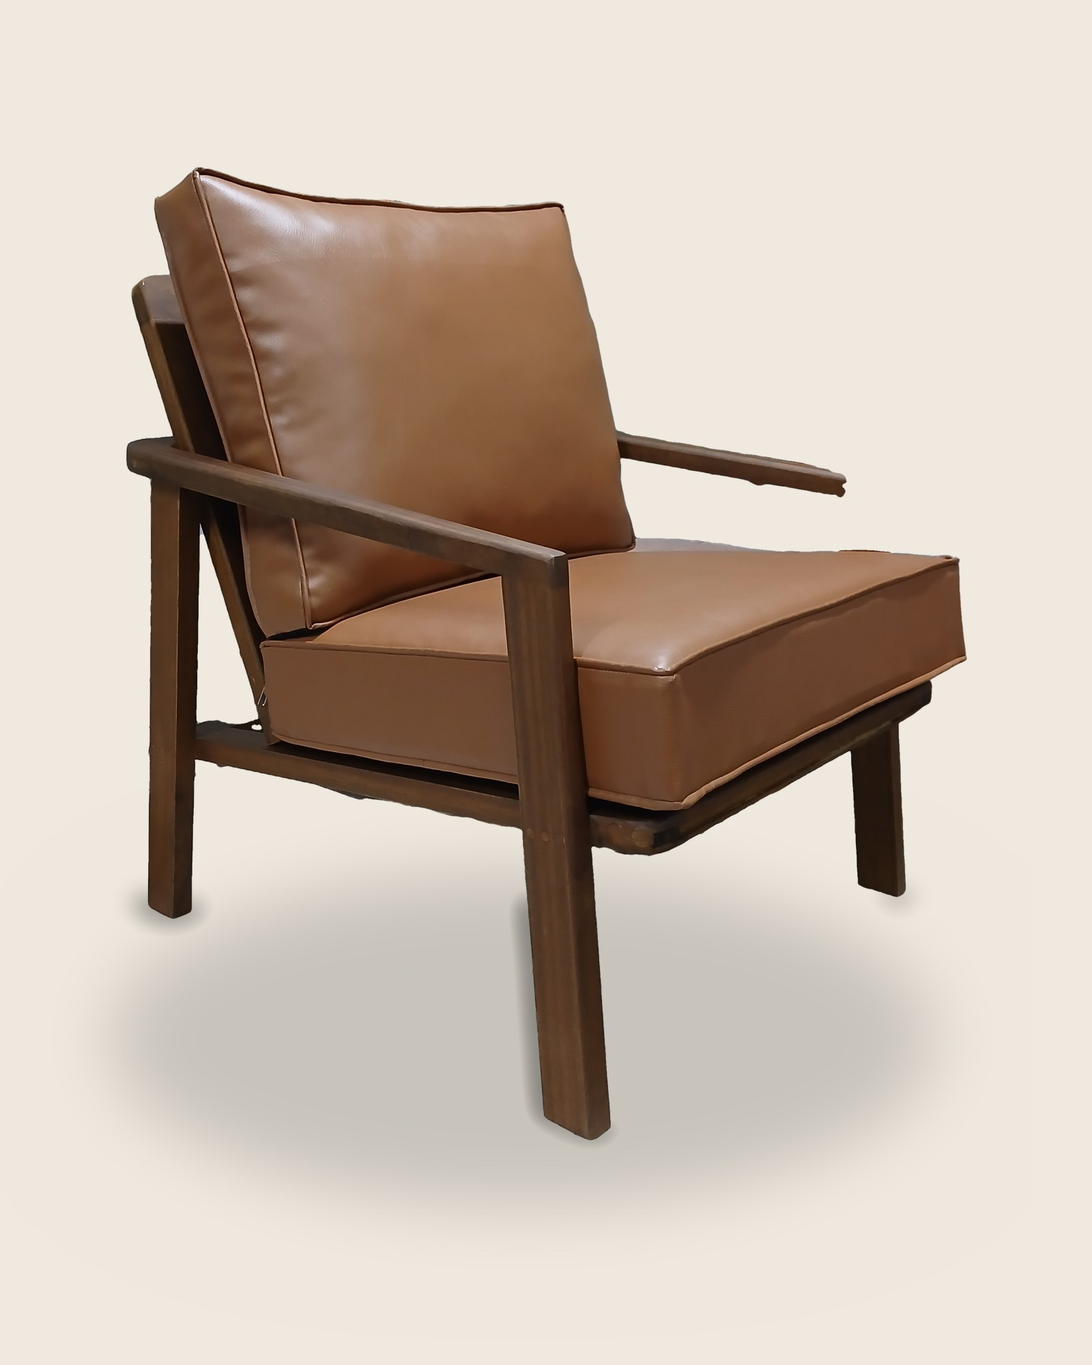
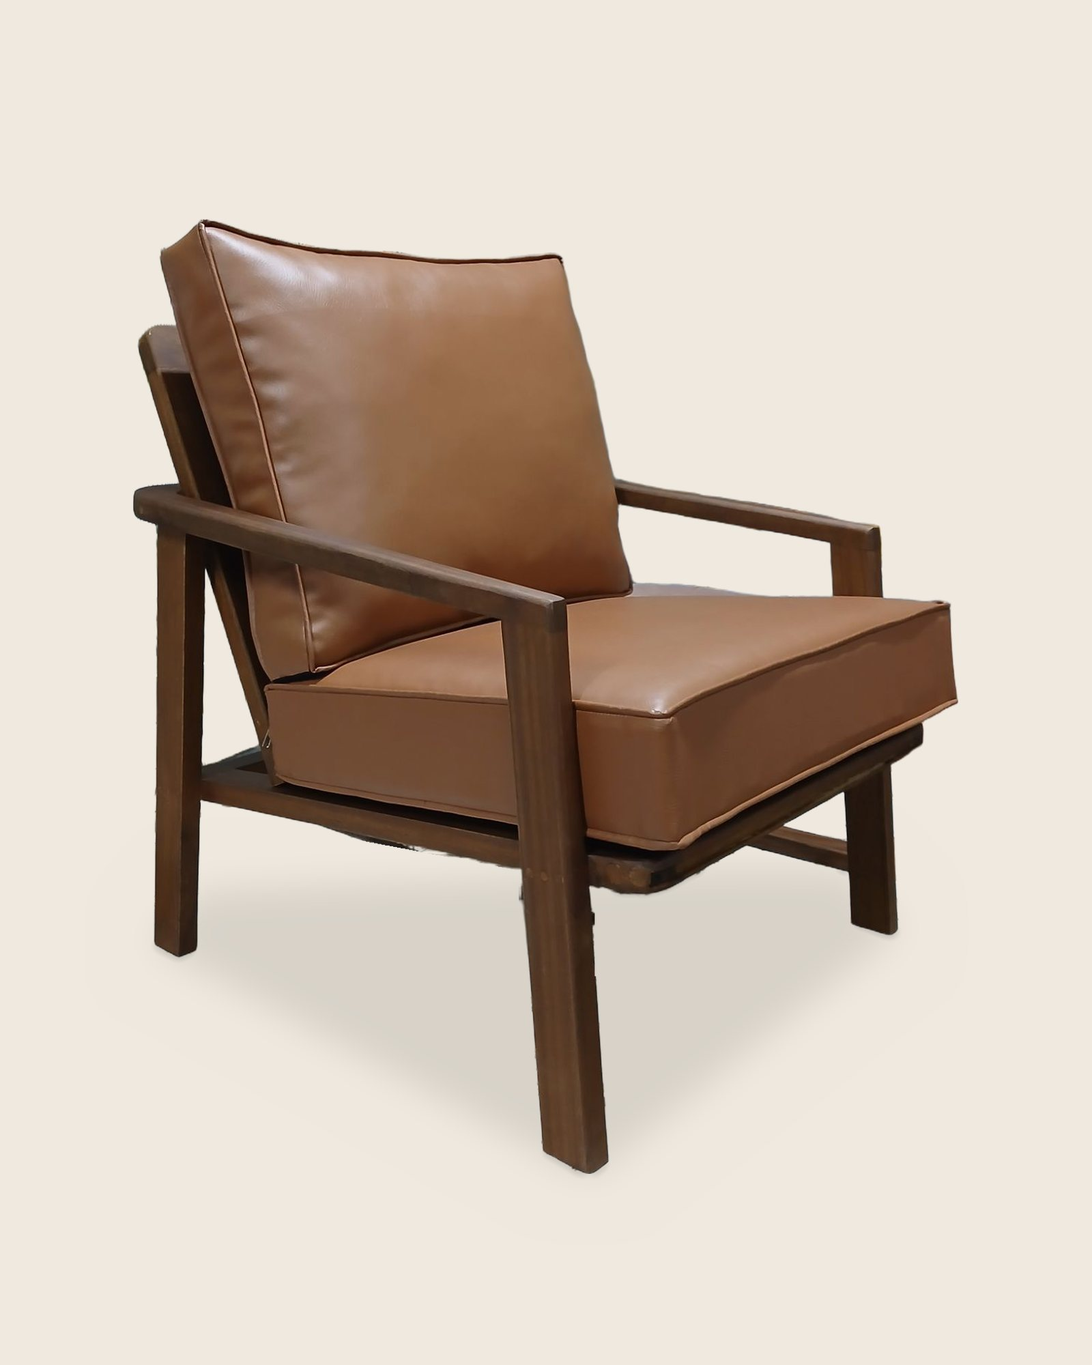
Seating: re-cut the lounge chair photos (all legs and the full cushion kept, soft shadow from the feet)
- birefnet-general mask instead of isnet (kept the thin far legs), strap and fabric roll removed by hand
- scripts/cutout-lounge-chairs.py rebuilds all four; before/after in docs/review/lounge-chairs-recut.jpg
- frames photo left as it was (straighten.py misread the reclined backs)

Changed region(s): [[0.0938, 0.124, 0.9062, 0.899]]

diff --git a/scripts/cutout-lounge-chairs.py b/scripts/cutout-lounge-chairs.py
@@ -1,0 +1,66 @@
+"""Lounge chair cut-outs on bone (2026-11-23, redo after the first pass lost legs and a cushion end).
+Mask: rembg birefnet-general (isnet-general-use dropped thin far legs). fix() removes two things the model kept:
+a dark strap on the table under chair 1, and the pink fabric roll behind the seat of chair 3 (pixel boxes measured
+on the 1500x2000 originals 1-4.jpg in the order the owner sent them: corner, side, other corner, pair).
+Writes chairs/lounge-chair-N.jpg (site names) at 1600x2000, bone #efe9df, soft shadow from the feet. usage: python scripts/cutout-lounge-chairs.py <dir with 1-4.jpg>
+Needs rembg, opencv-python-headless, Pillow, numpy (install outside the repo)."""
+import sys, os, shutil
+SITE = {"1": "1", "3": "2", "4": "3", "2": "4"}   # owner photo order -> site file number (3 = pair, 4 = side)
+import numpy as np
+from PIL import Image, ImageFilter
+from rembg import remove, new_session
+D = sys.argv[1]; os.chdir(D); os.makedirs("chairs", exist_ok=True)
+sess = new_session("birefnet-general")
+for k in "1234":
+    shutil.copy(f"{k}.jpg", f"chairs/{k}.jpg"); im = Image.open(f"{k}.jpg").convert("RGB")
+    remove(im, session=sess, only_mask=True).save(f"chairs/{k}-birefnet-general.png")
+import numpy as np
+from PIL import Image, ImageFilter
+BONE=(239,233,223)
+def fix(k,a):
+    H,W=a.shape
+    if k=='1':   # dark strap on the table under the seat (not part of the chair)
+        for x in range(600,822):
+            y0=int(1150+(248+(x-600)*2*85/445)/2)+2
+            a[y0:1500,x]=0
+        a[1365:1460,924:1080]=0
+    if k=='3':   # pink fabric roll seen behind the seat cushion
+        for x in range(780+65,780+430):
+            if 780+298<=x<=780+360: continue
+            yl=int(1050+75+(x-780-40)*25/390)-1
+            a[1050+15:yl,x]=0
+    return a
+for k in '1234':
+    im=np.array(Image.open(f'chairs/{k}.jpg').convert('RGB')).astype(np.float32)
+    a=np.array(Image.open(f'chairs/{k}-birefnet-general.png').convert('L')).astype(np.float32)/255
+    a=fix(k,a)
+    a[a<0.06]=0
+    ys,xs=np.where(a>0.5); x0,x1,y0,y1=xs.min(),xs.max(),ys.min(),ys.max()
+    im,a=im[y0:y1+1,x0:x1+1],a[y0:y1+1,x0:x1+1]
+    h,w=a.shape; CW,CH=1600,2000
+    s=min(CW*0.88/w, CH*0.70/h)
+    nw,nh=int(w*s),int(h*s)
+    cimg=Image.fromarray(im.astype(np.uint8)).resize((nw,nh),Image.LANCZOS)
+    cal=Image.fromarray((a*255).astype(np.uint8)).resize((nw,nh),Image.LANCZOS)
+    left=(CW-nw)//2; top=int(min(CH*0.86,(CH+nh)/2+CH*0.05))-nh   # tall chairs stand low, a wide pair sits near the middle
+    bg=Image.new('RGB',(CW,CH),BONE)
+    # floor shadow: soft patch over the area between the feet, plus a darker spot under each foot
+    import cv2
+    al=np.array(cal).astype(np.float32)/255
+    feet=[]
+    for x in range(nw):
+        col=np.where(al[:,x]>0.5)[0]
+        if len(col) and col.max()>nh*0.68 and (len(col)<3 or al[min(col.max()+3,nh-1),x]<0.5):
+            feet.append((left+x, top+col.max()))
+    sh=np.zeros((CH,CW),np.float32); con=np.zeros((CH,CW),np.float32)
+    if feet:
+        pts=np.array(feet,np.int32)
+        hull=cv2.convexHull(pts)
+        cv2.fillPoly(sh,[hull],0.16)
+        for x,y in feet: con[y-3:y+5,x]=0.5
+    sh=cv2.GaussianBlur(sh,(0,0),26)
+    sh=np.maximum(sh,cv2.GaussianBlur(con,(0,0),6))
+    b=np.array(bg).astype(np.float32)*(1-sh[...,None]*0.6)
+    bg=Image.fromarray(b.clip(0,255).astype(np.uint8))
+    bg.paste(cimg,(left,top),cal)
+    bg.save(f'chairs/lounge-chair-{SITE[k]}.jpg',quality=84,optimize=True,progressive=True)

diff --git a/CLAUDE.md b/CLAUDE.md
@@ -271,7 +271,7 @@ Membership platform for Ghanaian carpenters, run by Neewoody. The intake's purpo
 One member tool for all sheet-goods jobs (wardrobes, kitchens, TV units…) built from carcass units on a written **construction standard** (owner's principle: screws in shear, never in withdrawal). AI only suggests a spec (from words or a sketch photo); plain tested code sizes every part and hands them to the existing Cut Sheet. Plan, draft rule book (joint rules vs checks) and build order: **`docs/tools/smart-cutlist-plan.md`**. **Engine built 2026-11-19:** `js/smart/engine.js` (wardrobe units, positions first: the cut list is read off placed 3D parts; clash check built in); `node scripts/test-smart-engine.mjs` proves it matches `cutlist.html` part for part on 9 wardrobes with no clashes. **Experimental page `smart-generator.html` (2026-11-20, owner: "under construction label so people can try it out but we don't bear liability"):** open to all, noindex; under-construction banner + no-responsibility notice, a required "I will check every size" tick before sending/printing/exporting; spec editor, 3D, cut list, Send to the Cut Sheet (`nwd-smart-handoff`, read once by `cut-sheet.html`); exports members only; listed on /tools and the member Tools tab; What's new #44. Keep the banner and tick box until the owner says the engine is proven. **Edge banding is on as standard (owner 2026-11-20):** parts arrive pre-banded in the cutlist, the Smart Generator and its Cut Sheet handoff; members take off what isn't needed. Rules: `ebDefault` in `cutlist.html` = `edges()` in `js/smart/engine.js` (the parity test checks both); What's new #45. **Tools linked from the client side (2026-11-20, owner: "client facing side has no link to the tool"):** before this no public page linked any tool. Now the Wardrobes hero has "Estimate the price" (/wardrobe-estimator) and "Design it in 3D" (/cutlist) (`hero.extra` in `src/content/wardrobes.js`), every Astro footer's More column and the phone menu have "Free tools" (/tools). The cutlist stays fully usable logged out (only Save and the 3D exports ask for a login; print is behind the follow-to-unlock click). Accessibility checked with axe-core (WCAG 2 A/AA + best practice) at 1280 and 375 px: cutlist (form and results), Smart Generator, Cut Sheet, Wardrobes, Tools, estimator, homepage all 0 issues after fixes (edge-band drawings now have text labels, alpha notice contrast, footer links underlined, banners in landmarks, scrollable cut list reachable by keyboard). **Homeowner wardrobe planner (2026-11-20, owner: "homeowners should have their version"):** `/wardrobe-planner` (`src/pages/wardrobe-planner.astro`, public, indexed, in sitemap): size, door type (hinged / sliding / open), 1–6 equal sections, per section a plain-words layout (long hanging, hanging + shelves, double hanging, shelves, shelves + drawers, hanging + drawers) and one or two doors; 3D view on the Smart Generator engine (client mode, no cut list or construction settings); "Send this design on WhatsApp" with the full layout, "Get a price range" → estimator; note that it is a guide drawing and we measure before quoting. Wardrobes hero "Design it in 3D" and the Tools page (For homeowners) link to it; the carpenters' `/cutlist` stays fully open (settled rule: never gate the calculator). All presets checked clash-free at heights 1200–3200 with every door type. **Print lock (2026-11-20):** no website can verify an Instagram/TikTok follow, so the cutlist's lock is the strongest honest version: the top Print button and Ctrl+P print a "follow to print" notice until a follow button has been opened and the visitor comes back (or 10 s pass); remembered per device (`nwd-cutlist-print`); members always unlocked. Before this the top Print button bypassed the lock entirely. **Toe-kick banding (owner 2026-11-20):** flush with the doors = all round; set back = only the bottom edge (floor dragging chips laminate). In both `ebDefault` and engine `edges(p, shop)`; the cutlist resets the toe-kick marks when the style changes. **Live price, planner + cutlist + estimator merged (2026-11-20, owner: "the more you build the more price shows"; owner made a video telling clients to use the cutlist to build or buy materials and have us assemble):** `js/smart/price.js` (`WardrobePrice`) holds the owner's prices: laminate board 2440 × 1220 GH₵500, edge band GH₵200 per 100 m roll + GH₵500 application per roll, 2" assembly screws and 1¼" outside-panel screws GH₵60 per box of 100, handles 30 cm GH₵30 / 60 cm GH₵50 / 100 cm GH₵75. `materials(parts)` counts boards with the Cut Sheet's packing (matches the Cut Sheet exactly; over-long parts are counted as joined pieces and flagged), edge band from the banding, screws per joint (estimate, +10%, whole boxes), handles per door and drawer front; hinges, runners, hanging rails, sliding tracks and the thin back board are counted but NOT priced (owner to give prices). `estimate()` = the wardrobe estimator's formula, moved here; the estimator page now calls it (same results). The planner shows "Build it yourself: materials" and "We make and install it" live, with finish, door handles and area; the cutlist has a fixed price bar that updates as you build and a Materials Price card in the results (door-handle choice, follows the Edge Band Sheet). The cutlist is linked client-side: Wardrobes hero "Build it yourself", Tools (For homeowners), planner, estimator; its hero has a line for homeowners. The follow-to-print lock still applies. **Materials only, no labour (owner 2026-11-21):** clients see only the materials estimate; no made-and-installed or assembly price on the planner or cutlist (the estimator page still shows its own made-and-installed range; owner 2026-11-21: keep it, it is the one place clients see Neewoody's price). Assembly may later run through Carpentry Concierge, with the fee agreed between client and carpenter; for now the tools say "ask us and we'll connect you with a carpenter". Hardware prices (owner 2026-11-20): hinges GH₵15 a pair (2–4 hinges a door by height), runners GH₵35 (12"), 45 (14"), 55 (16"–22") a pair sized from the drawer box side, hanging rail GH₵120 per 3 m length with 2 pairs of brackets (rails cut from lengths; one bracket pair per rail), thin back board GH₵200 per 2440 × 1220 sheet (packed separately), sliding track GH₵750 per 10 ft set. **Planner → cutlist handoff (2026-11-21, owner: "can the wardrobe planner hand over to the wardrobe cut list?"):** the planner's "Get the full cut list for this design" link saves the design to `nwd-planner-handoff` (size, carcasses, sections with spaces and doors, door-handle size); `cutlist.html` `takePlannerHandoff()` reads it once on load (ignored after 30 min), works out the top space's height (the planner's "the rest"), loads it with `restoreConfig()`, shows a note and opens the cut list. Tested on 5 layouts: parts and materials price identical in both tools. **Drawer-chest face strips: inner long edge only** (back and bottom sit on the carcass, top under the shelf). Details: `docs/tools/cutlist.md`. Kitchen units: **owner answered the kitchen rules 2026-11-21** (plan section 4a-k: base units on 10 cm adjustable legs, 80 mm rails (4 per base unit, 2 per wall unit), toe kick set back 80, backs screwed on from the back (+5 mm on applied side panels; sink unit open-backed), J-profile doors shortened by the profile, wall-unit shelves set back 20, L corners routed from one square, a 2 cm riser under the slab so the 4 cm edge is flush with the carcass top (base sides = worktop − 4 − legs), 4/6/8 legs by width, one 3 m toe-kick board per run, J-profile height a member setting, default 35); the Prampram kitchen is the first test job. **Kitchen engine started 2026-11-21:** `kitchen(spec)` in `js/smart/engine.js` (base, sink, wall, side panel, filler, L corner; legs, rails, J-profile fronts, hardware tallies); `node scripts/test-kitchen-prampram.mjs` builds the Prampram U run + wall cabinets with no clashes (304 pieces, 24 boards); under a hob the front rail stands upright and the back rail rises (no flat back rail), under a sink the flat rails are 60; L blanks are squares at the larger leg size (shops cut squares, the workshop cuts the L). Wardrobe output unchanged. **Kitchen editor on the page 2026-11-21:** `smart-generator.html` has a Wardrobe / Kitchen switch (`#kitchen` opens it): runs and units editor, straight and U-shaped examples (the U one = the Prampram test, 304 pieces), kitchen construction settings, checks, 3D, cut list, hardware list, Cut Sheet handoff and exports; What's new #46. **Handles are a choice per kitchen (owner 2026-11-21: "normally we would have to choose handle type to shorten drawer faces"):** bar handles/knobs = full-height fronts (default for a new kitchen), J-profile = every front shortened by the profile (`kshop.handle`; the engine's own default stays J-profile so the Prampram test is unchanged). **Tall units, island, laundry and board size (2026-11-23, owner's answers):** keep tall units within the board, 240 overall max on 10 cm legs for 4×8 (box ≤ 2300); board size is a kitchen setting (4×8 standard; 4×9 and 6×9 almost never come in laminate, only chipboard); taller units (Amina's A and K at 270) are two stacked boxes, the lower one holding the appliances; K's door is one 2-leaf fold, full height; island units stand on legs with a toe kick all round; island sliding doors run on a bottom-rolling track. Engine: unit `tall` (zones bottom to top, `|` = upper box), run `kind:'island'`, `slide` units (back-to-back pairs), run `carcTop` + unit `frontTop` (laundry), tall end panels split at the box joint when longer than the board, every part checked against the board. `node scripts/test-kitchen-prampram.mjs --full` (462 pieces, no clashes) and `--laundry`. Heights inside A and K are first guesses (drawer 300, oven 600, micro 450). What's new #48. **Owner's follow-up 2026-11-23 (What's new #49):** tall units normally get cup-hinge or lift-up doors; the fold is K's special request. Door type is per box: hinged / lift-up with hinges and a gas or mechanical stay / hingeless lift-up / Accra sliding (flat bottom track, bigger top track: the carcass is set back by the track depth, side panels stay full depth; island sliding units the same) / fold. Shelves: the count is what gets cut and the installer places them; exact heights optional (`at` in tall zones, `shelfAt` on units). Drawer boxes are lower than their fronts (`drawerDrop` 50, `drawerMin` 80, construction settings). J-profile goes on the edge within reach (`reach` 1800). A's insides follow the appliances: drawer 300, oven niche 600 (oven 595), microwave space 400 (275 high freestanding). Laundry wall cabinets = C's (1500 to 2700). Island with an overhang: one top panel = quartz top less the 80 mm doubled edge all round (replaces the band strips); Amina's island top 1200 × 2000 from x 1500, z 1600, base centred, 300 overhang at the window end. Shelves over 800 inside get a centre divider (B1/B2). **Door types on every unit (owner 2026-11-23: "doors in general need the setting for type of door"):** engine `doorSet()` (base with doors: hinged, liftHinge, liftFree, liftFold, drop, dropFree, slide; wall: hinged and the lifts; tall: per box, plus slide and fold); lift-ups follow the shelves behind them (one lift-up door per shelf space); drop-downs are for TV units (soft-down stay or none). **The generator is for every member, not one job (owner 2026-11-23):** standard = blind corners (Euro modular rules), the L corner is a special option only; base blind corners 1000 or 1200, blind part = the other run's depth + back + door + 80 mm corner filler, an 18 mm blind panel on the front over it, door(s) on the open part; wall blind corners the same rule; the run that meets a blind corner starts with an 80 mm filler (engine unit `blind`, `K.cornerFill`). Page starters: straight, L-shaped, U-shaped kitchen and a plain laundry; the tab is "Kitchen / Laundry". Amina's kitchen and laundry are not linked on the page: the owner opens them at `smart-generator.html#prampram` / `#prampram-laundry` (and they stay the engine tests). What's new #50. **Drawer runners (owner 2026-11-23: "drawer box logic will switch according to drawer type"):** kitchen setting `K.runner` side | under. Side mount = the owner's box (unchanged). Undermount = Blum TANDEM/MOVENTO rules (Knape & Vogt the same; no Temax sheet found, Temax sells 16 and 18 mm side versions): inside width = opening − 42, sides 18 mm (`umSide`; owner: only 18 mm sides, Ghana has no 16 mm laminate board, so runners must be 18 mm-side versions; Blum takes 16 max; owner will send the Temax sheet), bottom raised 13 between the sides (`umRecess`), back sits on the bottom, box = nominal runner − 10 (`umShort`), runner = the longest of 600…250 with 3 mm to spare in the inside depth, about 14 under and 7 over the box. What's new #51. Size ranges from Blum AVENTOS / Grass Kinvaro / Sugatsune data drive the warnings (single lift on a stay ~350-600, hingeless up to ~800, bi-fold 480-1040, drop-downs for short flaps). Playwright is installed in the main checkout (wardrobe parity test passes 9/9 on Windows). Details in plan step 3. Waiting on the owner to correct the rule book. **Owner 2026-11-17:** the Smart Generator is its own build, listed in Tools as Experimental; it replaces the current tools only if it proves itself. Groove depth is each member's own setting. **Fixed 2026-11-17 in `cutlist.html`:** doors no longer overlap on dividers (each covers half the shared divider; default wardrobe now adds up exactly), doors use the edge-clearance setting, drawer fronts match door width, and a Groove Depth field (remembered per device) sizes the inset back; What's new #40. The "Shared divider" unit join was removed (owner: a shared panel is one carcass with a divider). Drawers behind doors now get the owner's drawer chest (separate box set back 80 mm, 60 mm fillers, 69 mm face strips = gap + 9 mm overlap, fronts between the strips with 3 mm gaps; owner-corrected and confirmed 2026-11-18; settings on the Doors tab; What's new #41). These are the standard; each member's own clearance values are remembered per device (`nwd-cutlist-prefs`) with a Reset to standard button. **3D view (2026-11-18):** `js/cutlist-3d.js` places every cut-list part in 3D (sizes only from the cut list; checks every part is used qty times and nothing clashes), 3D tab with pull-apart / see-through doors / tap for size, and a 3D picture at the top of the results and printout; three.js self-hosted in `js/vendor/three/`, loaded only when needed. Default section 3 now has the drawers at the bottom. **Owner corrections 2026-11-19:** drawer boxes = front/back full width, sides between them, base under; runner gap 27 mm (editable, remembered); subframe toggle: built in (gridwork between the sides, sides to the floor, default) or separate plinth under box units. Subframe = front/back rails with mid-rails sandwiched between; a set-back toe kick makes the whole frame shallower (mid-rails = depth − set back − face − 2 rails); the face panel is glued on (or screwed from inside) to hide the screws; the bogus "Face Mounting Rail" part was removed; subframe now in the 3D clash check. What's new #42. **3D exports (2026-11-19, members only):** a self-contained client viewer `.html` that opens offline on any phone (send on WhatsApp; carries the member's business name) and a SketchUp `.dae` (mm, Z up, named components, grouped by type); three.js is now a plain script (`window.THREE`). What's new #43. **Owner-tested in SketchUp 2026 (2026-11-19): imports and orbits correctly** (an apparent "orbit lunges" bug was his mouse's middle button being intercepted on his machine, not the file). Details: `docs/tools/cutlist.md`. Details: `docs/tools/cutlist.md`.
 
 ## Seating page (built 2026-11-17, owner: "searched wooden bar stools and wasn't ranked at all")
-**`/seating`** ("Custom Bar Stools, Chairs & Benches in Accra") is a product page like the others (`src/content/seating.js`, `src/pages/seating.astro`): hero = Jerksoul cube stools, features = Dome bar stools and East Legon Hyedua chairs, gallery (Jerksoul, Golf Hills banquette, Sage, pine benches, picnic sets, patio seating, Sage armchairs), what we make, a seat-height guide, Sage review, FAQ (FAQPage JSON-LD). Listed as "Chairs, stools and benches" in `SERVICES` (`src/data.js`, so nav, homepage list and every footer link to it; photo key `stools`) and in `sitemap.xml`. Only one real bar-stool photo exists (`nadia-dome/nadia-bar-stools.jpg`): new stool or chair photos should go on this page first. **Lounge chairs added 2026-11-23** (owner: "Yes, add them"): first card in the Seating gallery, 4 cut-out photos on bone (`images/projects/lounge-chairs/`, background removed locally with rembg `isnet-general-use` plus hand-traced outlines; the script lives only in the session scratchpad) + the bare stained frames. Copy names no timber, upholstery material or client (not known). Owner to-do for ranking: add "Bar stools" etc. as products on the Google Business Profile, and request indexing of /seating in Search Console. **Caption errors fixed 2026-11-17 (owner: "yes, fix them"):** on Portfolio, `outdoor-lounge-5.jpg` (a hardwood driveway gate in a steel frame) moved from "Outdoor lounge and patio" to the garden joinery card; `outdoor-lounge-3.jpg` is now captioned as the square coffee table; the lounge write-up no longer claims armchairs or bar stools, and the owner confirmed the patio photos are the **Sage Centre terrace, Wli** (named on Portfolio and Seating).
+**`/seating`** ("Custom Bar Stools, Chairs & Benches in Accra") is a product page like the others (`src/content/seating.js`, `src/pages/seating.astro`): hero = Jerksoul cube stools, features = Dome bar stools and East Legon Hyedua chairs, gallery (Jerksoul, Golf Hills banquette, Sage, pine benches, picnic sets, patio seating, Sage armchairs), what we make, a seat-height guide, Sage review, FAQ (FAQPage JSON-LD). Listed as "Chairs, stools and benches" in `SERVICES` (`src/data.js`, so nav, homepage list and every footer link to it; photo key `stools`) and in `sitemap.xml`. Only one real bar-stool photo exists (`nadia-dome/nadia-bar-stools.jpg`): new stool or chair photos should go on this page first. **Lounge chairs added 2026-11-23** (owner: "Yes, add them"): first card in the Seating gallery, 4 cut-out photos on bone (`images/projects/lounge-chairs/`, background removed locally with rembg `isnet-general-use` plus hand-traced outlines; the script lives only in the session scratchpad) + the bare stained frames. **Re-cut the same day** (owner: "remember our photo clean up process and work on these"): the first pass had lost the far front leg on three photos, the end of the seat cushion in the side view and a back leg in the pair. Now made with rembg **`birefnet-general`** (keeps thin far legs; use it for future cut-outs), two leftovers removed by hand (a strap on the table, a fabric roll behind a seat), soft shadow built from the feet; script `scripts/cutout-lounge-chairs.py`, before/after `docs/review/lounge-chairs-recut.jpg`. The frames photo was left as it was: `straighten.py` read the reclined backs as a 4° tilt and the result was no straighter. Copy names no timber, upholstery material or client (not known). Owner to-do for ranking: add "Bar stools" etc. as products on the Google Business Profile, and request indexing of /seating in Search Console. **Caption errors fixed 2026-11-17 (owner: "yes, fix them"):** on Portfolio, `outdoor-lounge-5.jpg` (a hardwood driveway gate in a steel frame) moved from "Outdoor lounge and patio" to the garden joinery card; `outdoor-lounge-3.jpg` is now captioned as the square coffee table; the lounge write-up no longer claims armchairs or bar stools, and the owner confirmed the patio photos are the **Sage Centre terrace, Wli** (named on Portfolio and Seating).
 
 ## Pergolas page (built 2026-11-17, owner: "go ahead with the pergola page")
 **`/pergolas`** ("Timber Pergolas, Carports & Canopies in Accra") on the product template (`src/content/pergolas.js`, `src/pages/pergolas.astro`). Lead project = **Oyibi, 2024** (carport, side walkway canopy, front-door canopy on shaped brackets, lattice gate) as a dark `projects` block: 13 photos from the professional shoot (`images/projects/oyibi-pergola/`, resized to web size from `Pictures/Pergola/Oyibi/Professional`) + the 5 Oyibi clips. Feature "Cut in the workshop, put up on site"; gallery: black pergola (pergolas/pergola-1..3 + clip), Mile 7 terrace pergola (`images/projects/mile7-pergola/`, 2 photos + clip; post material unclear, so the copy says only "dark"), Adabraka shop-front canopy (2 clips), lattice gates (links to Portfolio); what we build, what to decide, FAQ (FAQPage JSON-LD). Listed as "Pergolas and carports" in `SERVICES` (photo key `pergola` = Oyibi carport), in `sitemap.xml`, and linked from the Portfolio pergola card. Copy names no timber species and no client. Owner to-dos for ranking: add pergolas/carports as products on the Google Business Profile and request indexing of /pergolas in Search Console.
